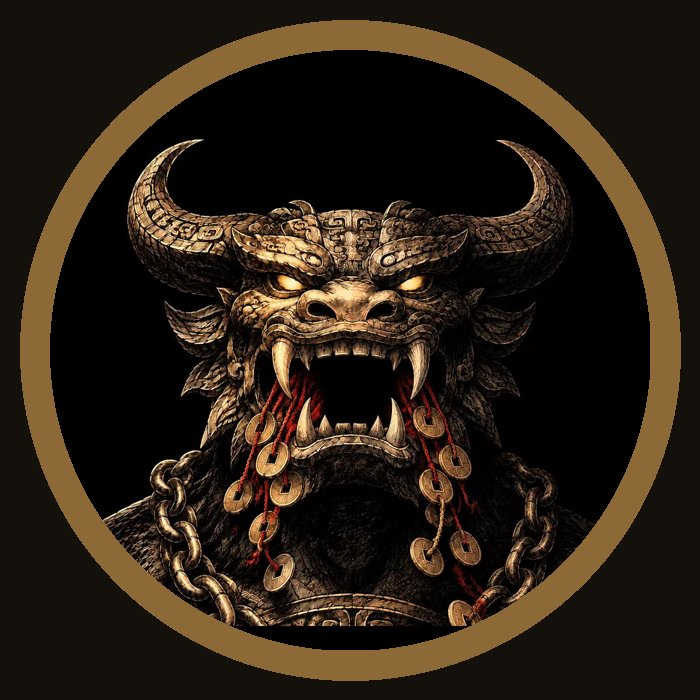
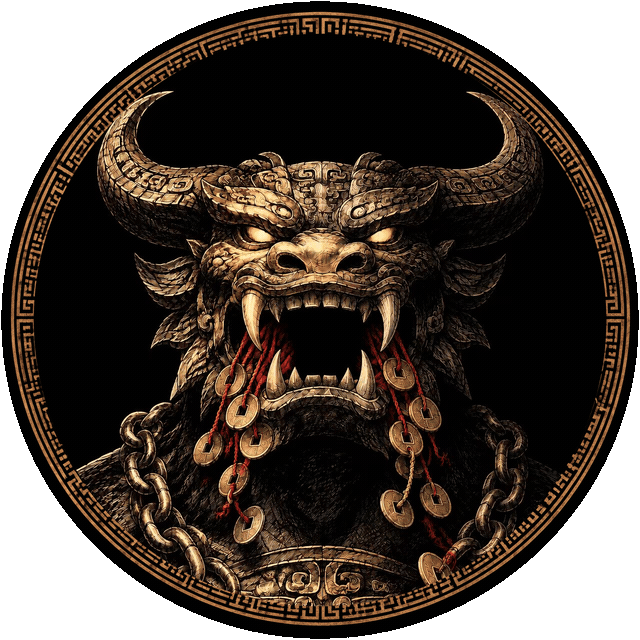
feat(ghosts): 捉鬼录新增 10 只鬼并装 12 张青铜画像（含饕餮换图）
按天赐指令原样追加 10 条鬼条目；12 张图压缩至 640px/256 色 PNG（均 ≤300KB）
装入 public/assets，九尾狐保持占位；发布并线上双视口复验 13 只鬼无溢出。

diff --git a/docs/qoder-log.md b/docs/qoder-log.md
@@ -4,6 +4,28 @@
 > 红线：只出现编造或脱敏样例，不得含真实合同内容、真实姓名、身份证、手机号、住址、公司名。
 > 截图由用户用系统截图工具放入 docs/shots/，文件名带里程碑编号；缺图写「（待补：xxx.png）」，不编造截图内容。
 
+## M4 后追加 · 捉鬼录新增 10 只鬼并装 12 张图（2026-11-17，不打 tag）
+
+### 做了什么
+
+- data/ghosts.json 末尾按指令原样追加 10 条：pixiu、qiongqi、huapi、gudiao、shuigui、shen、changgui、wangliang、mengpo、wuchang（字段 id/name/metaphor/scenes/strategy，顺序不变）；现有 3 条（相柳/饕餮/九尾狐）文字逐字未动；页面代码未改。
+- public/assets/ 装图 12 张：指令表 11 张＋饕餮替换（替换旧饕餮图由天赐本条消息明确指定）。图与鬼的对应按画面内容逐张识别：九头蛇衔钱=相柳、吞钱串神兽=貔貅、翼虎衔卷按天平=穷奇、揭面具=画皮鬼、角鹰抓钱袋=蛊雕、水中伸手者=水鬼、贝楼海市=蜃、提灯者身后虎眼=伥鬼、回廊迷墙=魍魉、捧碗老妇=孟婆、高帽沙漏绳索=无常、牛角贪食兽首=饕餮。九尾狐天赐未给图，继续占位（占位显示「九」字，不发请求、无 404）。
+- 压缩：源图为 2.0–6.4MB 的大尺寸 PNG；ffmpeg lanczos 缩至 640×640＋palettegen 256 色＋paletteuse(bayer)，保持 PNG 格式与文件名、不裁剪；12 张全部一次达标 ≤300KB。压缩前后字节数：相柳 5487098→225187；貔貅 5846460→237354；穷奇 6346781→262389；画皮鬼 5923379→243935；蛊雕 6085867→251550；水鬼 5266887→244047；蜃 5513884→227016；伥鬼 2050622→226487；魍魉 6449951→274520；孟婆 5637274→246732；无常 4699298→206099；饕餮 4780349→199817（旧饕餮图 525951 字节本身超限，本次一并替换）。
+
+### 验证
+
+- npm test 116/116 全绿；npm run build 通过；dist/assets 含 12 张 ghost 图。
+- dev/kuipan-qa.mjs 68/68（桌面＋移动双视口、控制台 0 error、no-asset-404 过）；截图 desktop-ghosts.png、mobile-ghosts.png（%TEMP%/kuipan-qa/）：13 只鬼、12 只有图、九尾狐占位、375px 无溢出。
+- 线上复验（headless＋普通 UA，临时脚本放 %TEMP% 不进仓库）：13 个切换按钮、12 张 img naturalWidth>0、1 个占位、圆镜正常、双视口 scrollWidth 无溢出、控制台 0 error、网络 0 个 4xx；截图 online-ghosts-desktop.png、online-ghosts-mobile.png（%TEMP%/kuipan-online/）。curl 核对线上 12 张图与本地逐字节一致。
+
+### 部署与运行记录
+
+- prepare_site/publish_site 各一次（预授权）：actionId a8b0b382-3c59-4e9e-80b0-75dee8268e0d，publishOperationId 01a1e7e5-910e-73d8-9ad4-2e17d481443a；get_publish_status published=true、committed=true、access_mode=public；线上 bundle 已换为 index-DeP82r6g.js（curl 首页核对）。
+
+### 改了哪些文件
+
+data/ghosts.json、public/assets/ghost-*.png ×12、docs/qoder-log.md。
+
 ## M4 后追加 · 三项任务完成后发布与线上复验（2026-11-17，不打 tag）
 
 ### 部署与运行记录
